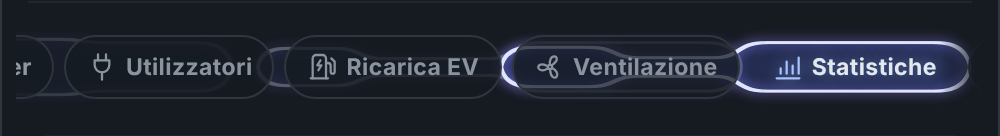
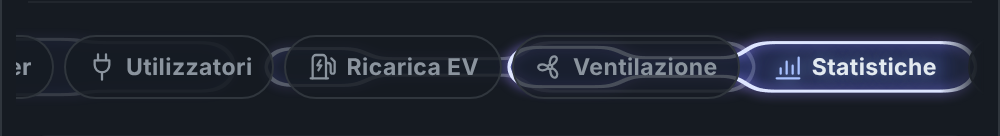
README: foto principale compatta e immagini con ?v=1.15.2 contro la cache
- card-overview.png ora mostra la card con il menu a schede (Inverter aperto), come la vede
  chi usa la card, invece di tutte le sezioni impilate (immagine lunghissima).
- Tutti gli indirizzi delle immagini con ?v=1.15.2, così GitHub e HACS scaricano le foto nuove.
- CLAUDE.md: aggiornare ?v=X.Y.Z a ogni versione.

Claude-Session: https://claude.ai/code/session_01FgYtzUL87aVSj8NCexq2wd

diff --git a/tools/screenshots/shoot.js b/tools/screenshots/shoot.js
@@ -42,8 +42,10 @@ const MDI = JSON.parse(fs.readFileSync(path.join(__dirname, 'icons.json'), 'utf8
     console.log('✓', file);
   };
 
-  await open('overview');
+  // README hero: the card as most people see it (tab menu, Inverter open), not every section stacked
+  await open('tabs');
   await shot('card-overview.png');
+  await open('overview');
   await shot('flow.png', '.hdr', '#pvBlocks');
   await shot('consumers-chart.png', '.cons', '.cch');
 

diff --git a/README.md b/README.md
@@ -1,4 +1,4 @@
-<img src="https://raw.githubusercontent.com/fabiustek/f-flow-card/main/docs/brand/icon-256.png" alt="Icona F-Flow Card" width="96" align="right">
+<img src="https://raw.githubusercontent.com/fabiustek/f-flow-card/main/docs/brand/icon-256.png?v=1.15.2" alt="Icona F-Flow Card" width="96" align="right">
 
 # F-Flow Card
 
@@ -10,7 +10,7 @@
 Versione attuale: **v1.15.2** · Fork di [k-flow-card](https://github.com/thekhan1122/k-flow-card) di Khan Automation (thekhan1122), licenza MIT.
 
 <p align="center">
-  <img src="https://raw.githubusercontent.com/fabiustek/f-flow-card/main/docs/images/card-overview.png" alt="F-Flow Card con tutte le sezioni attive" width="480">
+  <img src="https://raw.githubusercontent.com/fabiustek/f-flow-card/main/docs/images/card-overview.png?v=1.15.2" alt="F-Flow Card con il disegno dei flussi e il menu a schede" width="480">
 </p>
 
 > Le immagini di questa pagina sono generate dalla card vera con dati di esempio (`tools/screenshots/`) e vengono aggiornate a ogni versione.
@@ -119,7 +119,7 @@ Tutte le funzioni aggiuntive sono facoltative: se non le attivi, non compaiono.
 
 ### Aiuto nell'editor
 
-<p align="center"><img src="https://raw.githubusercontent.com/fabiustek/f-flow-card/main/docs/images/editor-help.png" alt="Editor con le spiegazioni aperte e le caselle apri al tocco" width="460"></p>
+<p align="center"><img src="https://raw.githubusercontent.com/fabiustek/f-flow-card/main/docs/images/editor-help.png?v=1.15.2" alt="Editor con le spiegazioni aperte e le caselle apri al tocco" width="460"></p>
 
 Accanto al nome di ogni campo, interruttore e sezione dell'editor c'è un **?**:
 - **toccalo** (anche da telefono o tablet) per aprire sotto il campo la spiegazione di cosa inserire, con esempi; toccalo di nuovo per chiuderla;
@@ -139,7 +139,7 @@ Sull'indicatore della rete e sul badge EMS il **tocco breve** apre la scheda, me
 
 ### Flussi di energia
 
-<p align="center"><img src="https://raw.githubusercontent.com/fabiustek/f-flow-card/main/docs/images/flow.png" alt="Area dei flussi di energia" width="480"></p>
+<p align="center"><img src="https://raw.githubusercontent.com/fabiustek/f-flow-card/main/docs/images/flow.png?v=1.15.2" alt="Area dei flussi di energia" width="480"></p>
 
 - **In alto**: titolo e indicatore **IN RETE / FUORI RETE**. La **modalità EMS** (se configurata) è un piccolo badge nel cielo, in alto a sinistra sopra l'arco del sole.
 - **Arco del sole**: alba, mezzogiorno e tramonto di oggi; l'etichetta gialla mostra la produzione fotovoltaica totale.
@@ -172,7 +172,7 @@ Esempio: SOC 45%, soglia 20%, batteria da 16 kWh, scarica a 1533 W → 25% di 16
 
 ### Tensioni, frequenza, autosufficienza e autoconsumo
 
-<p align="center"><img src="https://raw.githubusercontent.com/fabiustek/f-flow-card/main/docs/images/flow.png" alt="Tensioni delle stringhe, tensione e frequenza di casa e rete, autosufficienza e autoconsumo" width="480"></p>
+<p align="center"><img src="https://raw.githubusercontent.com/fabiustek/f-flow-card/main/docs/images/flow.png?v=1.15.2" alt="Tensioni delle stringhe, tensione e frequenza di casa e rete, autosufficienza e autoconsumo" width="480"></p>
 
 Tutti facoltativi: se non configuri un'entità, quella scritta non compare.
 
@@ -215,7 +215,7 @@ Se nel tuo impianto le stringhe sono al contrario, basta scambiare i sensori FV1
 
 ### Commutazione IN RETE / FUORI RETE
 
-<p align="center"><img src="https://raw.githubusercontent.com/fabiustek/f-flow-card/main/docs/images/grid-switch.png" alt="Richiesta di conferma per passare fuori rete" width="480"></p>
+<p align="center"><img src="https://raw.githubusercontent.com/fabiustek/f-flow-card/main/docs/images/grid-switch.png?v=1.15.2" alt="Richiesta di conferma per passare fuori rete" width="480"></p>
 
 Se l'impianto può staccarsi e riattaccarsi alla rete (per esempio con un modulo di sgancio e riaggancio), puoi comandarlo dalla card.
 
@@ -242,7 +242,7 @@ Sotto i flussi ci sono i totali di oggi. Con **6 riquadri giornalieri** attivo (
 
 ### Utilizzatori
 
-<p align="center"><img src="https://raw.githubusercontent.com/fabiustek/f-flow-card/main/docs/images/consumers-chart.png" alt="Utilizzatori e grafico dei consumi" width="480"></p>
+<p align="center"><img src="https://raw.githubusercontent.com/fabiustek/f-flow-card/main/docs/images/consumers-chart.png?v=1.15.2" alt="Utilizzatori e grafico dei consumi" width="480"></p>
 
 Un riquadro per ogni elettrodomestico, quanti ne vuoi.
 
@@ -257,7 +257,7 @@ Nella card:
 
 ### Grafico dei consumi
 
-<p align="center"><img src="https://raw.githubusercontent.com/fabiustek/f-flow-card/main/docs/images/chart-tooltip.png" alt="Dettaglio del grafico dei consumi" width="480"></p>
+<p align="center"><img src="https://raw.githubusercontent.com/fabiustek/f-flow-card/main/docs/images/chart-tooltip.png?v=1.15.2" alt="Dettaglio del grafico dei consumi" width="480"></p>
 
 Sotto gli utilizzatori c'è il grafico dei consumi. Ogni utilizzatore è un'**area del suo colore**, impilata sulle altre: si vede subito **cosa ha consumato e quando**.
 
@@ -274,7 +274,7 @@ Sotto gli utilizzatori c'è il grafico dei consumi. Ogni utilizzatore è un'**ar
 
 ### Ventilazione inverter
 
-<p align="center"><img src="https://raw.githubusercontent.com/fabiustek/f-flow-card/main/docs/images/ventilation.png" alt="Sezione ventilazione inverter" width="480"></p>
+<p align="center"><img src="https://raw.githubusercontent.com/fabiustek/f-flow-card/main/docs/images/ventilation.png?v=1.15.2" alt="Sezione ventilazione inverter" width="480"></p>
 
 Per chi ha una ventilazione ausiliaria dell'inverter. Sezione **🌀 Ventilazione inverter** → **＋ Attiva**. Tutti i sensori sono facoltativi.
 
@@ -305,7 +305,7 @@ Se lo stato ha un valore diverso, la card lo mostra così com'è.
 
 ### Statistiche
 
-<p align="center"><img src="https://raw.githubusercontent.com/fabiustek/f-flow-card/main/docs/images/statistics.png" alt="Sezione statistiche: produzione FV, consumi casa, batteria" width="480"></p>
+<p align="center"><img src="https://raw.githubusercontent.com/fabiustek/f-flow-card/main/docs/images/statistics.png?v=1.15.2" alt="Sezione statistiche: produzione FV, consumi casa, batteria" width="480"></p>
 
 Sezione **📈 Statistiche** → **＋ Attiva**. Ci sono tre grafici, ognuno attivabile o disattivabile; i dati arrivano dallo storico di Home Assistant e si aggiornano ogni 5 minuti. Toccando un grafico (o passandoci sopra col mouse) compare il dettaglio di quell'orario. Come le altre sezioni, si può chiudere e ha il flag 📌.
 
@@ -328,7 +328,7 @@ Sezione **📈 Statistiche** → **＋ Attiva**. Ci sono tre grafici, ognuno att
 
 ### Videocamera
 
-<p align="center"><img src="https://raw.githubusercontent.com/fabiustek/f-flow-card/main/docs/images/camera.png" alt="Sezione videocamera con le frecce di movimento" width="480"></p>
+<p align="center"><img src="https://raw.githubusercontent.com/fabiustek/f-flow-card/main/docs/images/camera.png?v=1.15.2" alt="Sezione videocamera con le frecce di movimento" width="480"></p>
 
 Sezione **📹 Videocamera** → **＋ Attiva**:
 1. **Videocamera**: scegli la tua entità `camera.*`. Il video in diretta usa il lettore di Home Assistant (lo stesso delle card ufficiali: HLS, WebRTC o MJPEG, in base a cosa supporta la videocamera).
@@ -350,7 +350,7 @@ Nella card le frecce compaiono sopra il video, in basso a destra. **Un tocco** m
 
 ### Cielo di notte e meteo
 
-<p align="center"><img src="https://raw.githubusercontent.com/fabiustek/f-flow-card/main/docs/images/sky-night.png" alt="Cielo stellato di notte" width="480"><br><img src="https://raw.githubusercontent.com/fabiustek/f-flow-card/main/docs/images/sky-storm.png" alt="Temporale con pioggia e nuvole" width="480"></p>
+<p align="center"><img src="https://raw.githubusercontent.com/fabiustek/f-flow-card/main/docs/images/sky-night.png?v=1.15.2" alt="Cielo stellato di notte" width="480"><br><img src="https://raw.githubusercontent.com/fabiustek/f-flow-card/main/docs/images/sky-storm.png?v=1.15.2" alt="Temporale con pioggia e nuvole" width="480"></p>
 
 - **Di notte** (dal tramonto all'alba, da `sun.sun`) il cielo si riempie di **stelle** che brillano, con una **stella cadente** ogni tanto. Non serve configurare nulla.
 - **Meteo**: in **🎨 Layout e intestazione** scegli la tua entità **Meteo** (`weather.*`, per esempio quella di Met.no o di OpenWeatherMap). Il cielo si anima in base alle condizioni:
@@ -368,13 +368,13 @@ Nella card le frecce compaiono sopra il video, in basso a destra. **Un tocco** m
 
 ### Statistiche batteria (JK BMS)
 
-<p align="center"><img src="https://raw.githubusercontent.com/fabiustek/f-flow-card/main/docs/images/card-bms.png" alt="Card con le statistiche della batteria JK BMS" width="480"></p>
+<p align="center"><img src="https://raw.githubusercontent.com/fabiustek/f-flow-card/main/docs/images/card-bms.png?v=1.15.2" alt="Card con le statistiche della batteria JK BMS" width="480"></p>
 
 Con **Riquadri statistiche batteria** attivo (predefinito) compaiono: temperatura celle min/max, temperatura BMS, produzione FV totale, tensione cella minima e massima, scarica di oggi e il riquadro **autonomia** con l'orario stimato ("Fino a lun 21:45"). Le etichette si possono rinominare nella sezione **🏷 Etichette**, che permette anche di mostrare un'altra entità al posto di quella predefinita.
 
 ### Auto elettrica / Wallbox
 
-<p align="center"><img src="https://raw.githubusercontent.com/fabiustek/f-flow-card/main/docs/images/wallbox.png" alt="Wallbox e auto in carica" width="480"></p>
+<p align="center"><img src="https://raw.githubusercontent.com/fabiustek/f-flow-card/main/docs/images/wallbox.png?v=1.15.2" alt="Wallbox e auto in carica" width="480"></p>
 
 A destra della casa, staccate dalle stringhe FV2/FV4, compaiono la **colonnina** e l'**auto**. Tra casa e colonnina c'è sempre una linea grigia; quando l'auto si carica diventa un flusso azzurro e il cavo si anima. Sopra l'auto ci sono la potenza di ricarica, lo stato, il SOC dell'auto (anche come barra sotto l'auto), la corrente e il tempo alla carica completa.
 
@@ -397,7 +397,7 @@ Stati riconosciuti (non importano maiuscole e minuscole):
 
 ### Ricarica EV
 
-<p align="center"><img src="https://raw.githubusercontent.com/fabiustek/f-flow-card/main/docs/images/ev-charging.png" alt="Scheda Ricarica EV con barra a bolle, comando protetto, modalità, corrente, sessione e storico" width="480"></p>
+<p align="center"><img src="https://raw.githubusercontent.com/fabiustek/f-flow-card/main/docs/images/ev-charging.png?v=1.15.2" alt="Scheda Ricarica EV con barra a bolle, comando protetto, modalità, corrente, sessione e storico" width="480"></p>
 
 Una scheda dedicata alla **ricarica dell'auto** con una wallbox **OCPP** (pensata per JuiceBox con l'integrazione OCPP, funziona con qualsiasi wallbox che esponga entità simili). Dall'alto in basso:
 
@@ -412,7 +412,7 @@ Una scheda dedicata alla **ricarica dell'auto** con una wallbox **OCPP** (pensat
 
 #### Comando protetto: un solo comando alla wallbox
 
-<p align="center"><img src="https://raw.githubusercontent.com/fabiustek/f-flow-card/main/docs/images/ev-confirm.png" alt="Conferma prima di fermare la ricarica" width="420"></p>
+<p align="center"><img src="https://raw.githubusercontent.com/fabiustek/f-flow-card/main/docs/images/ev-confirm.png?v=1.15.2" alt="Conferma prima di fermare la ricarica" width="420"></p>
 
 Alcune wallbox si bloccano se ricevono più comandi di fila. Per questo il pulsante **AVVIA / FERMA** funziona così:
 1. Il **tocco breve non fa nulla**: bisogna **tenere premuto 1 secondo** (un anello si riempie intorno al pulsante).
@@ -467,7 +467,7 @@ evc_consumption: 14
 
 ### Menu a schede
 
-<p align="center"><img src="https://raw.githubusercontent.com/fabiustek/f-flow-card/main/docs/images/tabs.png" alt="Menu a schede con la sezione Inverter aperta" width="480"><br><img src="https://raw.githubusercontent.com/fabiustek/f-flow-card/main/docs/images/tabs-goo.png" alt="La goccia luminosa mentre passa da una scheda all'altra" width="480"></p>
+<p align="center"><img src="https://raw.githubusercontent.com/fabiustek/f-flow-card/main/docs/images/tabs.png?v=1.15.2" alt="Menu a schede con la sezione Inverter aperta" width="480"><br><img src="https://raw.githubusercontent.com/fabiustek/f-flow-card/main/docs/images/tabs-goo.png?v=1.15.2" alt="La goccia luminosa mentre passa da una scheda all'altra" width="480"></p>
 
 Sotto il disegno dei flussi c'è una **barra di schede**, una per ogni sezione attiva: Batteria, Inverter, Utilizzatori, Ricarica EV, Ventilazione, Statistiche, Video (nell'ordine scelto in **Ordine delle sezioni**).
 
@@ -484,7 +484,7 @@ Nell'editor, in **🎨 Layout e intestazione**:
 
 Con **Sezioni impilate (vecchio stile)** attivo:
 
-<p align="center"><img src="https://raw.githubusercontent.com/fabiustek/f-flow-card/main/docs/images/sections-closed.png" alt="Sezioni chiuse con riepilogo e flag per tenerle aperte" width="480"></p>
+<p align="center"><img src="https://raw.githubusercontent.com/fabiustek/f-flow-card/main/docs/images/sections-closed.png?v=1.15.2" alt="Sezioni chiuse con riepilogo e flag per tenerle aperte" width="480"></p>
 
 Le sezioni **Inverter** (riquadri giornalieri), **Utilizzatori** e **Ventilazione inverter** si aprono e si chiudono toccando il titolo. Da chiuse occupano una sola riga, con un riepilogo:
 - **Inverter**: produzione FV e consumo di oggi.
@@ -501,7 +501,7 @@ Di partenza tutte le sezioni hanno il flag spuntato, quindi la card si presenta 
 
 ### Da telefono
 
-<p align="center"><img src="https://raw.githubusercontent.com/fabiustek/f-flow-card/main/docs/images/phone.png" alt="La card in una colonna stretta, come da telefono" width="340"></p>
+<p align="center"><img src="https://raw.githubusercontent.com/fabiustek/f-flow-card/main/docs/images/phone.png?v=1.15.2" alt="La card in una colonna stretta, come da telefono" width="340"></p>
 
 La card si adatta alla **propria larghezza**, non a quella dello schermo: se è stretta (sotto 440 px, come su un telefono o in una colonna stretta della plancia), i 6 riquadri giornalieri vanno su 3 colonne e le etichette del disegno (orari, autonomia, FV1/FV2, wallbox…) diventano più grandi.
 

diff --git a/CLAUDE.md b/CLAUDE.md
@@ -16,7 +16,7 @@ Card Lovelace per Home Assistant (fork di k-flow-card), distribuita con HACS. Il
    - righe nel "Riferimento delle opzioni" per ogni nuova chiave YAML;
    - "Esempio completo", "Risoluzione dei problemi" e "Logica dei colori" se toccati;
    - voce nel "Registro delle modifiche".
-3. **Immagini nel README**: usa sempre l'indirizzo completo `https://raw.githubusercontent.com/fabiustek/f-flow-card/main/docs/images/<nome>.png` (non `docs/images/...`): HACS mostra il README fuori da GitHub e i percorsi relativi non funzionano.
+3. **Immagini nel README**: usa sempre l'indirizzo completo `https://raw.githubusercontent.com/fabiustek/f-flow-card/main/docs/images/<nome>.png?v=X.Y.Z` (non `docs/images/...`): HACS mostra il README fuori da GitHub e i percorsi relativi non funzionano. A ogni versione aggiorna `?v=X.Y.Z` su **tutte** le immagini, altrimenti GitHub e HACS continuano a mostrare le foto vecchie dalla cache.
 4. **Rigenera le foto**: aggiorna `tools/screenshots/demo.html` (dati e scene) se la novità non si vede, poi `node tools/screenshots/shoot.js` (se `require('playwright')` non si risolve, usa `NODE_PATH=$(npm root -g)`), controlla le immagini e committa `docs/images/`. Se servono nuove icone `mdi:` nella demo, aggiungile a `tools/screenshots/icons.json`.
 5. Nuove opzioni: aggiungile a `getStubConfig()` e all'editor; i testi visibili all'utente sono in italiano, i commenti nel codice in inglese.
 6. Le nuove funzioni devono essere facoltative o non rompere le configurazioni esistenti.
